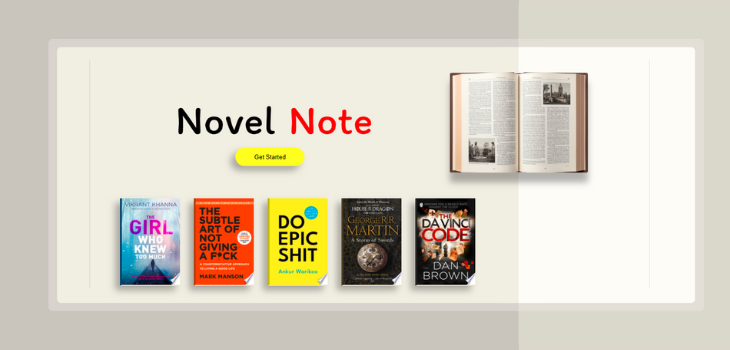
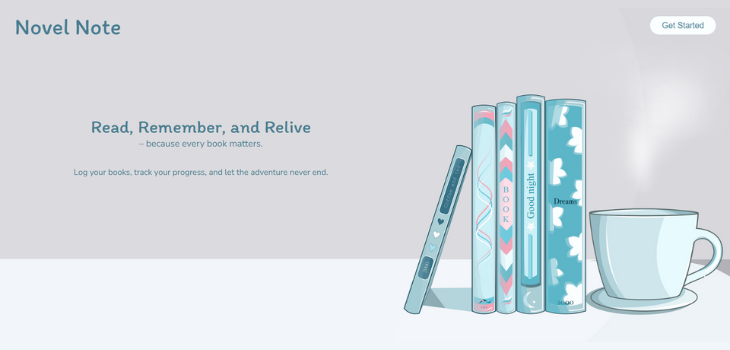
Update Project NovelNote and made it a seperate website

diff --git a/client/src/Portfolio.js b/client/src/Portfolio.js
@@ -4,13 +4,6 @@ import ProjectPortfolio from "./ProjectPortfolio";
 function Portfolio() {
   const projects = [
     {
-      projImgName: "AspireAlly-project.png",
-      projLink: "https://aspireally.onrender.com/",
-      classname: "project-big",
-      details:
-        "A mentorship matching platform that connects mentors and mentees based on their skills and interests. It helps users find suitable mentorship opportunities and manage their profiles.",
-    },
-    {
       projImgName: "FlavorBeat-project.png",
       projLink: "https://flavorbeat.onrender.com/",
       classname: "project-big",
@@ -18,11 +11,18 @@ function Portfolio() {
         "A mood-based recommendation platform for music and cuisines tailored to user emotions and time of the day.",
     },
     {
-      projImgName: "NN-project.jpg",
-      projLink: "/NovelNote",
+      projImgName: "NN-project.png",
+      projLink: "https://novelnote.onrender.com/",
       classname: "project-big",
       details:
         "An app for tracking reading history and managing book details. It integrates data from the Google Books API to provide users with book information.",
+    },
+    {
+      projImgName: "AspireAlly-project.png",
+      projLink: "https://aspireally.onrender.com/",
+      classname: "project-big",
+      details:
+        "A mentorship matching platform that connects mentors and mentees based on their skills and interests. It helps users find suitable mentorship opportunities and manage their profiles.",
     },
     {
       projImgName: "BIC-project.jpg",

diff --git a/client/src/NovelNote.js b/client/src/NovelNote.js
@@ -8,6 +8,7 @@ import {
   useLocation,
 } from "react-router-dom";
 import ImageCarousel from "./ImageCarousel";
+const API_KEY = process.env.REACT_APP_GOOGLE_API_KEY;
 
 export default function NovelNote() {
   return (
@@ -140,7 +141,7 @@ function Library() {
 
       // Fetch data from Google Books API
       const resBooks = await fetch(
-        `https://www.googleapis.com/books/v1/volumes?q=${q}`
+        `https://www.googleapis.com/books/v1/volumes?q=${q}&key=${API_KEY}`
       );
       const dataBooks = await resBooks.json();
       setData(dataBooks.items); // set data to state
@@ -175,9 +176,6 @@ function Library() {
       setIsAdding(false);
     }
   }
-
-  console.log(Carousel);
-
   const handleSlideChange = (swiper) => {
     const activeIndex = swiper.activeIndex;
     setActiveIndex(activeIndex);
